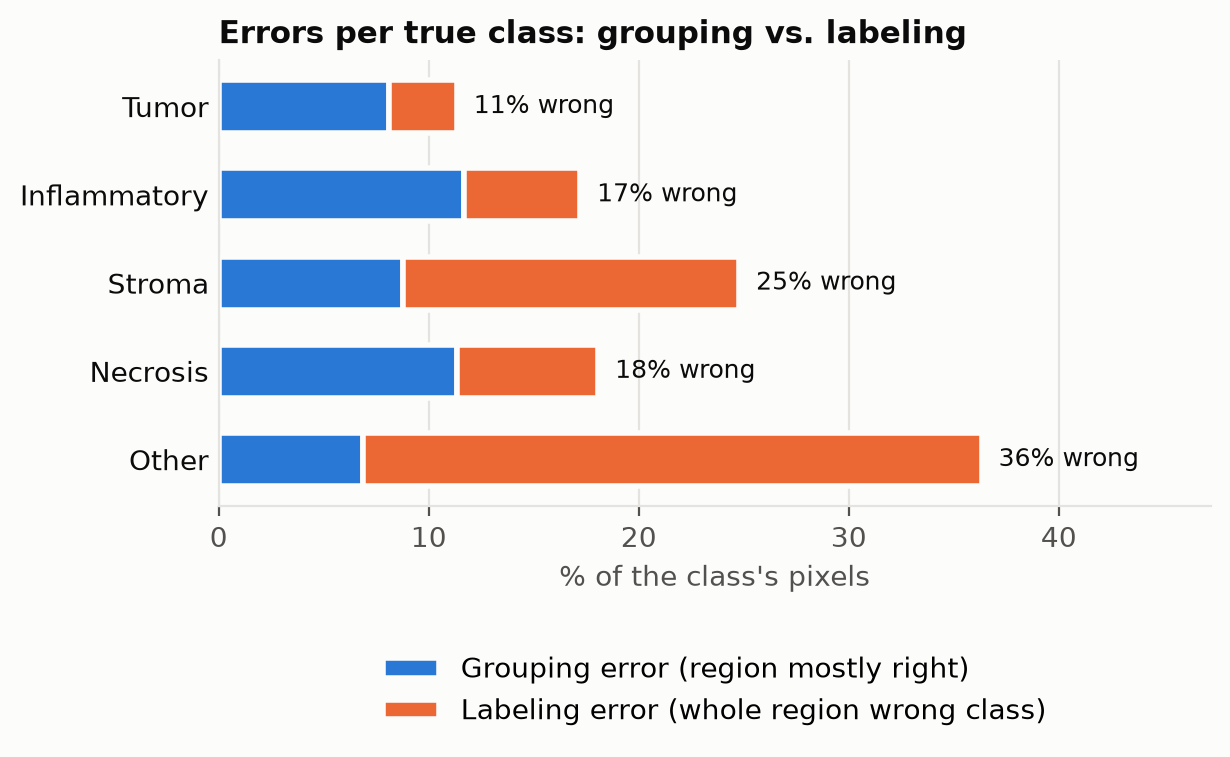
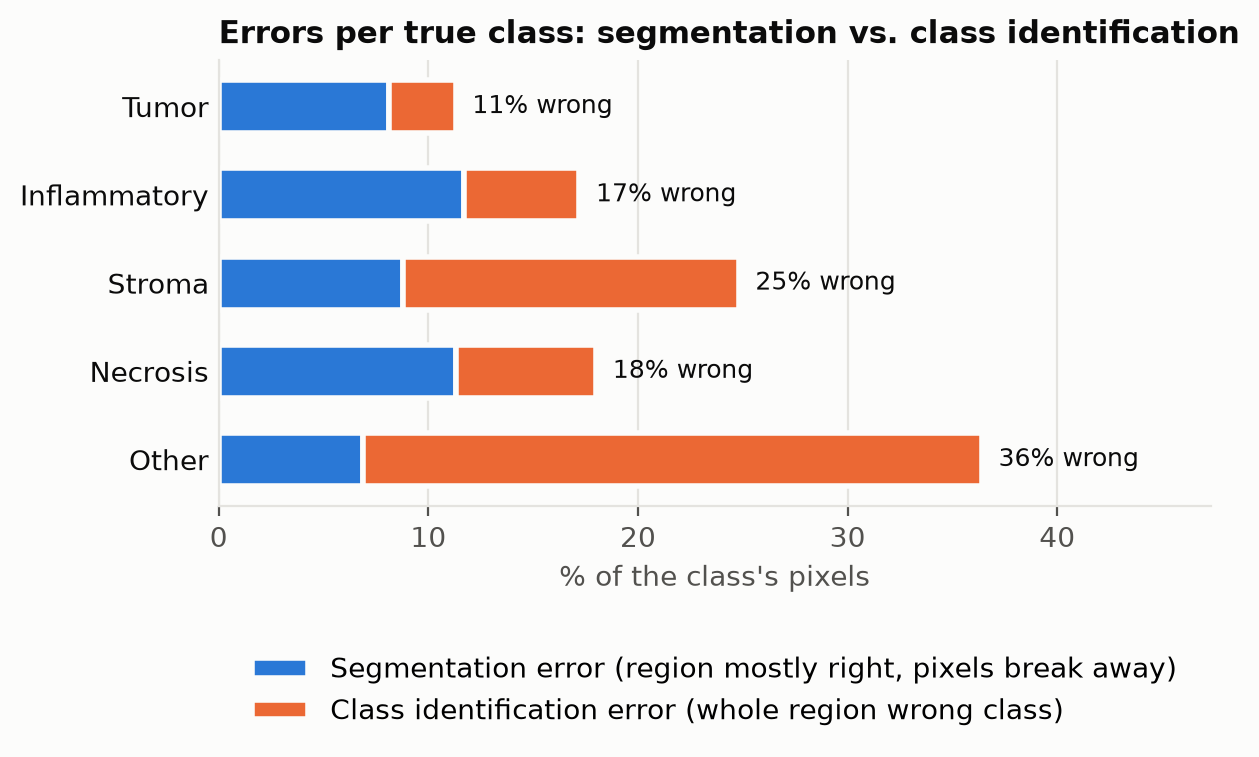
Deliverable 7: hypothesis as segmentation / class identification / too many types, PanNuke example
Claude-Session: https://claude.ai/code/session_01CTh5Qud5ucWXzk6pK8w2Lo

diff --git a/docs/deliverable7/index.html b/docs/deliverable7/index.html
@@ -74,12 +74,15 @@
 
 <section id="hypothesis">
 <h2>Hypothesis</h2>
-<p>The segmenter makes two kinds of mistakes, and smoothing fixes neither.</p>
+<div class="take"><b>The U-Net has limitations, and WCSP right now is only a smoother, so it can't fix them.</b> Smoothing cleans up noisy borders. The U-Net's real errors are bigger than that.</div>
 <table>
-  <tr><th>Mistake</th><th>Example</th><th>What would fix it</th></tr>
-  <tr><td><b>Grouping</b></td><td>One stroma region is predicted as ~10 scattered pieces</td><td>Coherent regions</td></tr>
-  <tr><td><b>Labeling</b></td><td>A whole region is called "other" when it's stroma</td><td>Knowing which classes belong in the tile</td></tr>
+  <tr><th>Problem</th><th>What goes wrong</th><th>Evidence</th><th>What could fix it</th></tr>
+  <tr><td><b>Segmentation</b></td><td>One true region is broken into many pieces</td><td>~10 predicted pieces per true region; 48% of wrong pixels</td><td>Training the U-Net to keep regions whole (region loss)</td></tr>
+  <tr><td><b>Class identification</b></td><td>A whole region is given the wrong class</td><td>52% of wrong pixels; "other" 36% wrong, stroma 25%</td><td>Strong data-derived rules, not light smoothing; a better classifier</td></tr>
+  <tr><td><b>Too many tissue types</b></td><td>The model predicts classes that aren't in the tile</td><td>U-Net: "other" in 20% of tiles vs 11% in truth. PanNuke: extra cell types in a patch</td><td>The presence rule (a data-derived class-set prior)</td></tr>
 </table>
+<p class="note">PanNuke example of too many types: in a tumor patch, one nucleus is labeled non-neoplastic (purple). The type-set rule removes the extra type.</p>
+<img src="pannuke_type_set_example.png" alt="PanNuke patch where an extra cell type is predicted and removed by the type-set rule">
 </section>
 
 <section id="prelim">
@@ -87,8 +90,8 @@
 <p class="note">Ryan's full-resolution U-Net · 185 dev tiles · no training.</p>
 <table>
   <tr><th>Test</th><th class="num">Result</th></tr>
-  <tr><td>Wrong pixels that are <b>grouping</b> mistakes</td><td class="num"><b>48%</b></td></tr>
-  <tr><td>Wrong pixels that are <b>labeling</b> mistakes</td><td class="num"><b>52%</b></td></tr>
+  <tr><td>Wrong pixels that are <b>segmentation</b> errors</td><td class="num"><b>48%</b></td></tr>
+  <tr><td>Wrong pixels that are <b>class identification</b> errors</td><td class="num"><b>52%</b></td></tr>
   <tr><td>Predicted pieces per true region</td><td class="num"><b>~10</b> <span class="d">(should be 1)</span></td></tr>
   <tr><td>Presence + smoothing on this model</td><td class="num">0.6524 → <b>0.6610</b> <span class="d">(+0.0086)</span></td></tr>
   <tr><td>Upper bound: true classes given per tile</td><td class="num"><b>0.7163</b> <span class="d">(+0.0639)</span></td></tr>
@@ -99,9 +102,9 @@
 
 <div class="take"><b>Our presence rule gets only +0.0086 of a possible +0.0639</b>, so knowing the right classes is worth far more than the rule currently recovers. Coherent regions are worth even more (+0.1244). Both are what training arms B and C target.</div>
 
-<img src="prelim_error_split.png" alt="Wrong pixels per class, split into grouping and labeling errors">
+<img src="prelim_error_split.png" alt="Wrong pixels per class, split into segmentation and class identification errors">
 
-<div class="take"><b>Worst classes:</b> "other" (36% wrong) and stroma (25%), both mostly <b>labeling</b> mistakes. Inflammatory and necrosis errors are mostly <b>grouping</b>.</div>
+<div class="take"><b>Worst classes:</b> "other" (36% wrong) and stroma (25%), both mostly <b>class identification</b> errors. Inflammatory and necrosis errors are mostly <b>segmentation</b>.</div>
 </section>
 
 <section id="current">
@@ -110,8 +113,8 @@
 <table>
   <tr><th>Model</th><th>Added loss</th><th>Fixes</th><th class="num">Dev mIoU</th></tr>
   <tr><td>A (Ryan)</td><td>none</td><td class="dash">—</td><td class="num">0.6679</td></tr>
-  <tr><td>B</td><td>Region loss: pixels in the same true region should agree</td><td>Grouping</td><td class="num dash">—</td></tr>
-  <tr><td>C</td><td>Presence loss: predict which classes are in the tile</td><td>Labeling</td><td class="num dash">—</td></tr>
+  <tr><td>B</td><td>Region loss: pixels in the same true region should agree</td><td>Segmentation</td><td class="num dash">—</td></tr>
+  <tr><td>C</td><td>Presence loss: predict which classes are in the tile</td><td>Class identification</td><td class="num dash">—</td></tr>
 </table>
 <div class="take"><b>Success</b> = B or C beats A.</div>
 </section>

diff --git a/deliverables/figures_20261123/issue_examples.py b/deliverables/figures_20261123/issue_examples.py
@@ -1,0 +1,100 @@
+# One BCSS dev tile per failure mode of Ryan's full-res U-Net (185 frozen dev inputs),
+# shown as image | ground truth | U-Net prediction:
+#   grouping   most predicted pieces per true region while the majority class is right
+#   labeling   largest true region (>= 20% of the tile) whose majority prediction is wrong
+#   extra      most predicted classes (>= 1% of the tile) that are absent from the truth
+#
+#   python deliverables/figures_20261123/issue_examples.py
+
+from pathlib import Path
+
+import matplotlib
+
+matplotlib.use("Agg")
+import matplotlib.pyplot as plt  # noqa: E402
+import numpy as np  # noqa: E402
+from matplotlib.colors import ListedColormap  # noqa: E402
+from PIL import Image  # noqa: E402
+from scipy import ndimage  # noqa: E402
+
+OUT = Path(__file__).resolve().parent
+INPUTS = Path("data/fullres_multiscale_20261115/inputs")
+IMAGES = Path("/scratch1/ubhuwani/data/bcss_v2/BCSS_512")
+NAMES = ["Tumor", "Inflammatory", "Stroma", "Necrosis", "Other"]
+TISSUE = ["#d64541", "#2f9e44", "#5c7cfa", "#f2c037", "#c56cf0"]
+IGNORE, K = 255, 5
+SURFACE, INK = "#fcfcfb", "#0b0b0b"
+
+
+def image_for(tile_id):
+    for split in ("train_512", "val_512"):
+        p = IMAGES / split / f"{tile_id}.png"
+        if p.exists():
+            return np.asarray(Image.open(p).convert("RGB"))
+    return None
+
+
+def scores(path):
+    z = np.load(path)
+    target, pred = z["target"], z["probs"].astype(np.float32).argmax(0)
+    valid = target != IGNORE
+    if valid.mean() < 0.9:
+        return None
+    out = {"id": str(z["id"]), "target": target, "pred": pred}
+    n_true = n_pred_in = 0
+    big_wrong = 0
+    for c in range(K):
+        comp, n = ndimage.label((target == c) & valid, structure=np.ones((3, 3)))
+        for r in range(1, n + 1):
+            region = comp == r
+            if region.sum() < 2000:
+                continue
+            maj = np.bincount(pred[region], minlength=K).argmax()
+            if maj == c:
+                n_true += 1
+                n_pred_in += len(np.unique(ndimage.label(pred == c, structure=np.ones((3, 3)))[0][region])) - 1
+            elif region.mean() >= 0.2:
+                big_wrong = max(big_wrong, region.mean())
+    acc = (pred[valid] == target[valid]).mean()
+    out["grouping"] = n_pred_in / max(n_true, 1) if acc > 0.7 else 0
+    out["labeling"] = big_wrong
+    share = lambda a: np.bincount(a[valid], minlength=K)[:K] / valid.sum() >= 0.01  # noqa: E731
+    out["extra"] = int((share(pred) & ~share(target)).sum()) + 0.001 * acc
+    return out
+
+
+def main():
+    rows = [r for r in (scores(p) for p in sorted(INPUTS.glob("*.npz"))) if r is not None]
+    picks = [("Segmentation: one true region broken into pieces", max(rows, key=lambda r: r["grouping"])),
+             ("Class identification: a whole region given the wrong class", max(rows, key=lambda r: r["labeling"])),
+             ("Too many tissue types: classes not in the tile", max(rows, key=lambda r: r["extra"]))]
+    cmap = ListedColormap(TISSUE + ["#e4e3df"])
+    fig, axes = plt.subplots(3, 3, figsize=(9.6, 10.2), gridspec_kw={"hspace": 0.22, "wspace": 0.04})
+    for i, (title, r) in enumerate(picks):
+        img = image_for(r["id"])
+        show = lambda a: np.where(r["target"] == IGNORE, K, a)  # noqa: E731
+        panels = [(img, "Image"), (show(r["target"]), "Ground truth"), (show(r["pred"]), "U-Net")]
+        for j, (data, name) in enumerate(panels):
+            ax = axes[i, j]
+            if data is None:
+                ax.text(0.5, 0.5, "image not found", ha="center", va="center")
+            elif data.ndim == 3:
+                ax.imshow(data)
+            else:
+                ax.imshow(data, cmap=cmap, vmin=0, vmax=K, interpolation="nearest")
+            ax.set_xticks([])
+            ax.set_yticks([])
+            for s in ax.spines.values():
+                s.set_visible(False)
+            if i == 0:
+                ax.set_title(name, color=INK, fontsize=11)
+        axes[i, 0].text(0, 1.04, title, transform=axes[i, 0].transAxes, color=INK, fontsize=11,
+                        fontweight="bold", va="bottom")
+        print(title, r["id"])
+    handles = [plt.Rectangle((0, 0), 1, 1, color=c) for c in TISSUE] + [plt.Rectangle((0, 0), 1, 1, color="#e4e3df")]
+    fig.legend(handles, NAMES + ["Unlabeled"], loc="lower center", ncol=6, frameon=False, bbox_to_anchor=(0.5, 0.04))
+    fig.savefig(OUT / "issue_examples.png", dpi=170, bbox_inches="tight", facecolor=SURFACE)
+
+
+if __name__ == "__main__":
+    main()

diff --git a/deliverables/figures_20261123/prelim_figures.py b/deliverables/figures_20261123/prelim_figures.py
@@ -81,9 +81,9 @@ def fig_split(group, label, conf):
     g, l = 100 * group / total, 100 * label / total
     fig, ax = plt.subplots(figsize=(6.4, 2.9))
     ys = np.arange(K)[::-1]
-    ax.barh(ys, g, color=BLUE, height=0.6, edgecolor=SURFACE, linewidth=2, label="Grouping error (region mostly right)")
+    ax.barh(ys, g, color=BLUE, height=0.6, edgecolor=SURFACE, linewidth=2, label="Segmentation error (region mostly right, pixels break away)")
     ax.barh(ys, l, left=g, color=ORANGE, height=0.6, edgecolor=SURFACE, linewidth=2,
-            label="Labeling error (whole region wrong class)")
+            label="Class identification error (whole region wrong class)")
     for y, a, b in zip(ys, g, l):
         ax.text(a + b + 0.8, y, f"{a + b:.0f}% wrong", va="center", color=INK, fontsize=9)
     ax.set_yticks(ys, NAMES)
@@ -93,7 +93,7 @@ def fig_split(group, label, conf):
     ax.grid(axis="x", color=GRID)
     ax.set_axisbelow(True)
     ax.legend(frameon=False, loc="upper center", bbox_to_anchor=(0.5, -0.28), ncol=1)
-    title(ax, "Errors per true class: grouping vs. labeling")
+    title(ax, "Errors per true class: segmentation vs. class identification")
     fig.savefig(OUT / "prelim_error_split.png", dpi=200, bbox_inches="tight")
 
 

diff --git a/deliverables/deliverable_7.md b/deliverables/deliverable_7.md
@@ -33,12 +33,17 @@ mIoU, with the change vs. the base model in brackets. "—" = not run (yet).
 
 ## Hypothesis
 
-The segmenter makes two kinds of mistakes, and smoothing fixes neither.
+**The U-Net has limitations, and WCSP right now is only a smoother, so it can't fix them.** Smoothing cleans up noisy borders. The U-Net's real errors are bigger than that:
 
-| Mistake | Example | What would fix it |
-|---|---|---|
-| **Grouping** | One stroma region is predicted as ~10 scattered pieces | Coherent regions |
-| **Labeling** | A whole region is called "other" when it's stroma | Knowing which classes belong in the tile |
+| Problem | What goes wrong | Evidence | What could fix it |
+|---|---|---|---|
+| **Segmentation** | One true region is broken into many pieces | ~10 predicted pieces per true region; 48% of wrong pixels | Training the U-Net to keep regions whole (region loss) |
+| **Class identification** | A whole region is given the wrong class | 52% of wrong pixels; "other" 36% wrong, stroma 25% | Strong data-derived rules, not light smoothing; a better classifier |
+| **Too many tissue types** | The model predicts classes that aren't in the tile | U-Net: "other" in 20% of tiles vs 11% in truth. PanNuke: extra cell types in a patch | The presence rule (a data-derived class-set prior) |
+
+*PanNuke example of too many types: in a tumor patch, one nucleus is labeled non-neoplastic (purple). The type-set rule removes the extra type.*
+
+![PanNuke too many types](../docs/deliverable7/pannuke_type_set_example.png)
 
 ---
 
@@ -48,8 +53,8 @@ The segmenter makes two kinds of mistakes, and smoothing fixes neither.
 
 | Test | Result |
 |---|---|
-| Wrong pixels that are **grouping** mistakes | **48%** |
-| Wrong pixels that are **labeling** mistakes | **52%** |
+| Wrong pixels that are **segmentation** errors | **48%** |
+| Wrong pixels that are **class identification** errors | **52%** |
 | Predicted pieces per true region | **~10** (should be 1) |
 | Presence + smoothing on this model | 0.6524 → **0.6610** (+0.0086) |
 | Upper bound: true classes given per tile | **0.7163** (+0.0639) |
@@ -61,7 +66,7 @@ The segmenter makes two kinds of mistakes, and smoothing fixes neither.
 
 ![Mistakes per class](figures_20261123/prelim_error_split.png)
 
-**Worst classes: "other" (36% wrong) and stroma (25%), and both are mostly labeling mistakes.** Inflammatory and necrosis errors are mostly grouping.
+**Worst classes: "other" (36% wrong) and stroma (25%), and both are mostly class identification errors.** Inflammatory and necrosis errors are mostly segmentation.
 
 ---
 
@@ -72,7 +77,7 @@ Same training as Ryan's model; only the loss changes. Score = raw U-Net, no post
 | Model | Added loss | Fixes | Dev mIoU |
 |---|---|---|:---:|
 | A (Ryan) | none | — | 0.6679 |
-| B | Region loss: pixels in the same true region should agree | Grouping | — |
-| C | Presence loss: predict which classes are in the tile | Labeling | — |
+| B | Region loss: pixels in the same true region should agree | Segmentation | — |
+| C | Presence loss: predict which classes are in the tile | Class identification | — |
 
 **Success = B or C beats A.**
